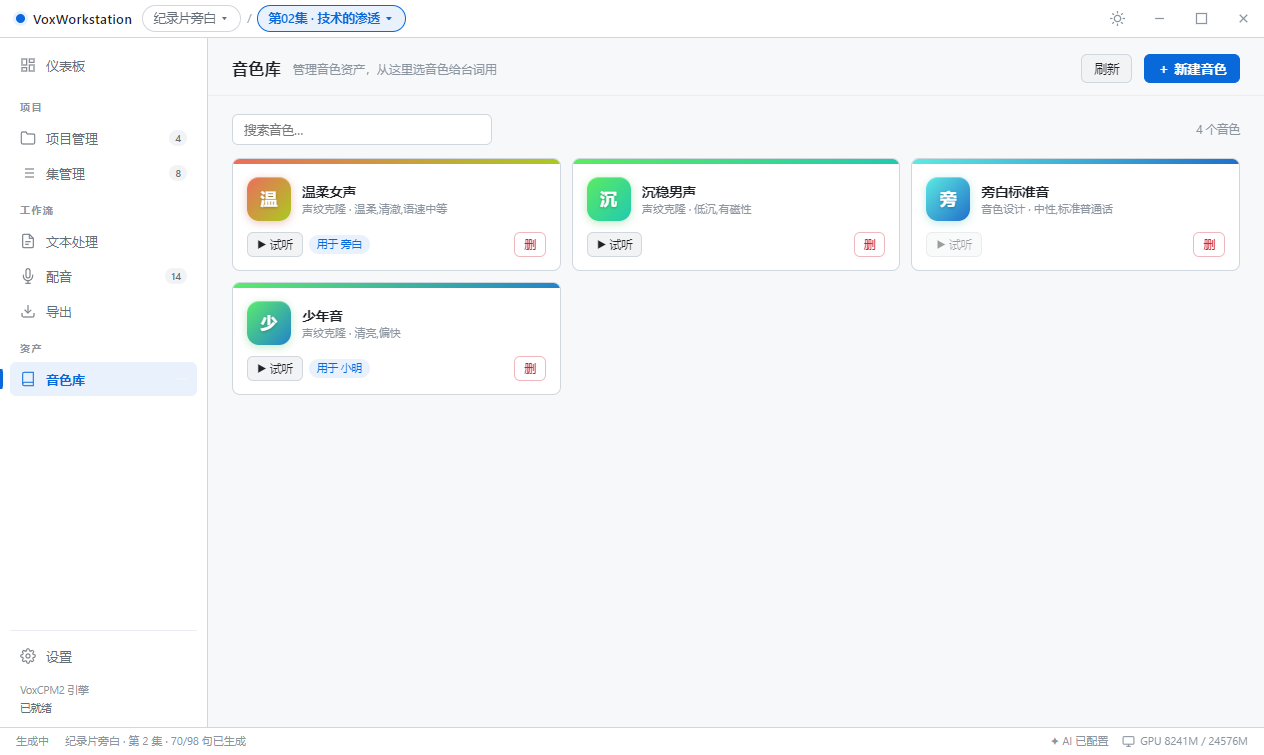
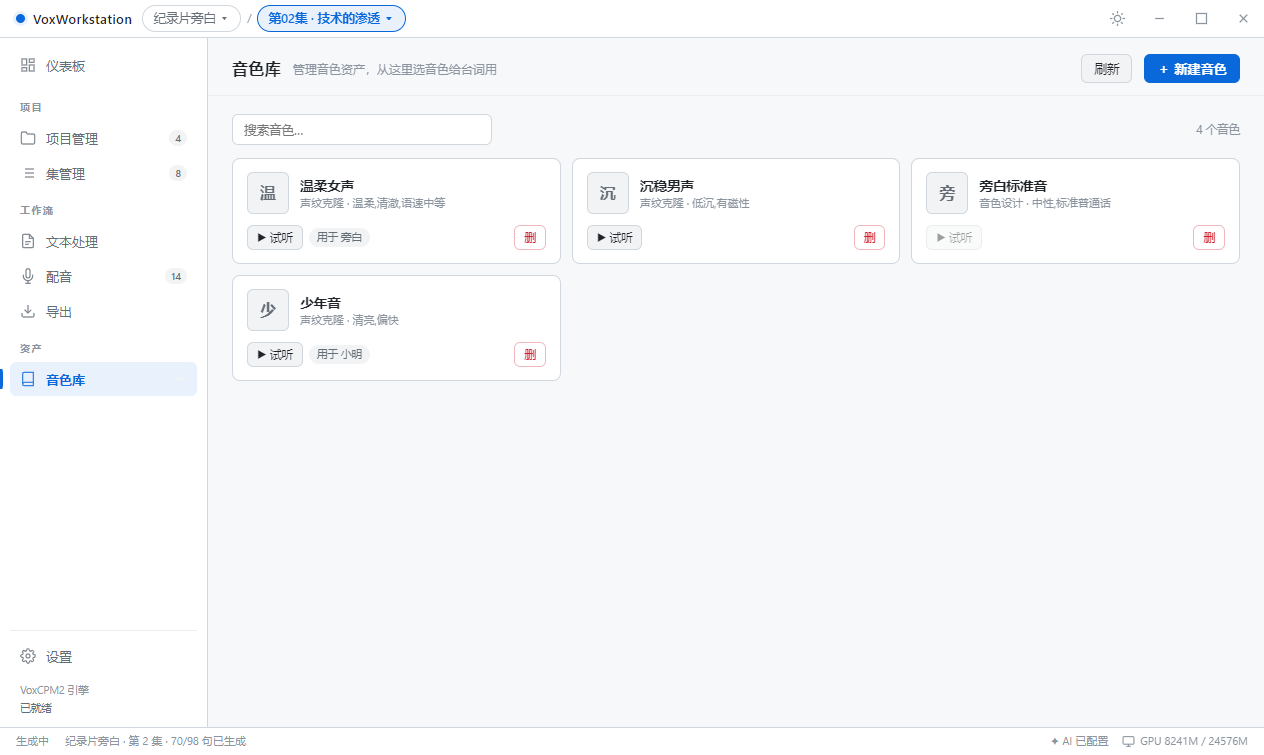
feat: 音色卡片改朴素主题色 + 修正 DeepSeek 模型名 + 通知提示音
音色卡片改版（上一版彩色渐变和主题差距太大）
- 去掉顶部彩色渐变窄带与彩色渐变方块
- 方块改用主题自身的中性色：--bg-elev 底 + --border 描边，
  首字用 --text-dim；悬浮时描边转 --accent
- 卡片去掉整体上浮，只保留描边变化，避免和主题气质冲突
- 四个主题分别适配：构成主义方角粗边、极简黑白透明底、
  液态玻璃毛玻璃底

DeepSeek 模型名修正（原 deepseek-chat / deepseek-reasoner 已下线）
- 按官方文档改为 deepseek-flash（DeepSeek-V4.1-Flash）
  与 deepseek-v4-pro（DeepSeek-V4-Pro-0813）
- 选中 DeepSeek 时显示说明：flash 便宜且支持视觉、1M 上下文，
  文本处理够用；错峰时段（北京时间 09:00-12:00 与 14:00-18:00 之外，
  含整个周末）价格减半
- 视觉模型输入框提示改为「DeepSeek 可直接填 deepseek-flash」

新增通知提示音
- components/notify.js：用 Web Audio 现场合成，不带任何音频文件
- 五种：关闭 / 清脆双音（G5→C6）/ 单声叮 / 轻气泡 / 下行三音
- 失败用单独的下行音，与成功区分
- 设置 → 通知：总开关、成功/失败分项开关、提示音选择（点了即试听）、
  音量滑杆（拖动即时生效，松手落盘）、试听按钮
- 接入三处完成点：配音「生成全部」、AI 文本处理、整轨/字幕导出

实测（探针）：零控制台报错；
音色卡片 hasWave=false / hasTone=false / chipGrad=none /
chipBg 为主题色 / chipBorder 跟随 --border；
通知 chips ["none","chime","ding","pop","down"]、AudioContext 可用、
切换提示音写入设置成功；
DeepSeek chips ["deepseek-flash","deepseek-v4-pro"] 且说明文案已显示

diff --git a/renderer/js/pages/settings.js b/renderer/js/pages/settings.js
@@ -4,9 +4,12 @@
 
 /* OpenAI 兼容服务商预设 —— 换服务商只改这里的 baseURL 与模型 */
 const AI_PROVIDERS = [
-  { id: 'deepseek', name: 'DeepSeek',    sub: '中文最准 · 便宜 · 国内直连',
+  { id: 'deepseek', name: 'DeepSeek',    sub: '国内直连 · 错峰半价',
     base: 'https://api.deepseek.com/v1',
-    models: ['deepseek-chat', 'deepseek-reasoner'] },
+    models: ['deepseek-flash', 'deepseek-v4-pro'],
+    note: 'deepseek-flash 便宜且支持视觉（1M 上下文），文本处理完全够用；'
+        + '错峰时段（北京时间 09:00-12:00、14:00-18:00 之外，含整个周末）价格减半。'
+        + '旧的 deepseek-chat / deepseek-reasoner 已下线。' },
   { id: 'qwen',     name: '通义千问',    sub: '阿里云 DashScope',
     base: 'https://dashscope.aliyuncs.com/compatible-mode/v1',
     models: ['qwen-max', 'qwen-plus', 'qwen-turbo', 'qwen-long'] },
@@ -125,6 +128,8 @@ const SettingsPage = {
       + '</span></h2>'
       + '<p class="text-sm text-muted" style="margin:-6px 0 10px">'
       + '所有服务商都走 OpenAI 兼容接口。选一个会自动填好地址与模型，也可以手改。</p>'
+      + (cur.note ? '<div class="bg-line" style="margin-bottom:12px">'
+          + '<div class="bg-text" style="font-size:12px">' + Util.escapeHtml(cur.note) + '</div></div>' : '')
       + '<div class="themes" style="flex-wrap:wrap;margin-bottom:6px">'
       + AI_PROVIDERS.map(p =>
           '<div class="th' + (ai.provider === p.id ? ' on' : '') + '" data-provider="' + p.id + '" style="width:164px">'
@@ -141,8 +146,8 @@ const SettingsPage = {
           + '</div>'
           + '<input type="text" id="ai-model" value="' + Util.escapeAttr(ai.model || '') + '" style="width:230px;'
           + (isCustomModel || !models.length ? '' : 'display:none') + '" placeholder="手填模型名">')
-      + this._row('视觉模型（OCR）', '图片取字用，留空则关闭该功能',
-          '<input type="text" id="ai-vision" value="' + Util.escapeAttr(ai.visionModel || '') + '" placeholder="如 qwen-vl-max" style="width:220px">')
+      + this._row('视觉模型（OCR）', '图片取字用；DeepSeek 可直接填 deepseek-flash，留空则关闭该功能',
+          '<input type="text" id="ai-vision" value="' + Util.escapeAttr(ai.visionModel || '') + '" placeholder="如 deepseek-flash / qwen-vl-max" style="width:220px">')
       + this._row('API Key', '用系统凭据加密存储，不落明文',
           '<input type="password" id="ai-key" placeholder="' + (Store.hasApiKey ? '已保存（留空则不修改）' : 'sk-…') + '" style="width:240px">'
           + '<button class="btn btn-sm" data-act="test">测试连接</button>')
@@ -235,9 +240,28 @@ const SettingsPage = {
 
   _notify(s) {
     const n = s.notify || {};
+    const sound = n.sound || 'chime';
+    const vol = n.volume ?? 70;
     return '<div class="card"><h2>通知</h2>'
-      + this._row('生成完成时提醒', '批量生成耗时较长', this._sw(n.onDone !== false, 'toggle-done'))
-      + this._row('生成失败时提醒', '失败句子会在集管理里标红', this._sw(n.onFail !== false, 'toggle-fail'))
+      + this._row('生成完成时提醒', '批量生成耗时较长，完成后响一声', this._sw(n.soundEnabled !== false, 'toggle-sound'))
+      + this._row('提醒内容', '不想要哪一种就关掉',
+          '<div class="model-chips">'
+          + '<button type="button" class="mchip' + (n.onDone !== false ? ' on' : '') + '" data-notify="onDone">成功时提醒</button>'
+          + '<button type="button" class="mchip' + (n.onFail !== false ? ' on' : '') + '" data-notify="onFail">失败时提醒</button>'
+          + '</div>')
+      + this._row('提示音', '现场合成，不占体积',
+          '<div class="model-chips" id="sound-chips">'
+          + Notify.SOUNDS.map(([id, name]) =>
+              '<button type="button" class="mchip' + (sound === id ? ' on' : '') + '" data-sound="' + id + '">'
+              + name + '</button>').join('')
+          + '</div>')
+      + this._row('音量', '',
+          '<input type="range" id="n-vol" min="0" max="100" value="' + vol + '" style="width:170px">'
+          + '<b class="text-sm" id="n-vol-v" style="width:36px;text-align:right">' + vol + '%</b>'
+          + '<button class="btn btn-sm" data-act="test-sound">试听</button>')
+      + '<p class="text-sm text-muted mt-12" style="margin-bottom:0">'
+      + '提示音在「生成全部台词」「AI 处理」「整轨导出」完成后播放。'
+      + '失败时用下行音，和成功区分开。</p>'
       + '</div>';
   },
 
@@ -306,8 +330,31 @@ const SettingsPage = {
     toggle('toggle-motion',   v => save({ reduceMotion: !v }));
     toggle('toggle-tts',      v => save({ tts: { ...s.tts, autoStart: v } }));
     toggle('toggle-srt',      v => save({ output: { ...s.output, exportSrt: v } }));
-    toggle('toggle-done',     v => save({ notify: { ...s.notify, onDone: v } }));
-    toggle('toggle-fail',     v => save({ notify: { ...s.notify, onFail: v } }));
+    toggle('toggle-sound',    v => save({ notify: { ...s.notify, soundEnabled: v } }));
+
+    /* 通知：内容开关 / 提示音 / 音量 */
+    el.querySelectorAll('[data-notify]').forEach(b =>
+      b.addEventListener('click', () => {
+        const key = b.dataset.notify;
+        const on = !b.classList.contains('on');
+        b.classList.toggle('on', on);
+        save({ notify: { ...s.notify, [key]: on } });
+      }));
+    el.querySelectorAll('#sound-chips [data-sound]').forEach(b =>
+      b.addEventListener('click', () => {
+        el.querySelectorAll('#sound-chips .mchip').forEach(x => x.classList.toggle('on', x === b));
+        save({ notify: { ...s.notify, sound: b.dataset.sound } });
+        if (b.dataset.sound !== 'none') setTimeout(() => Notify.play(b.dataset.sound), 120);
+      }));
+    const volEl = el.querySelector('#n-vol');
+    volEl?.addEventListener('input', () => {
+      const v = Number(volEl.value);
+      const lbl = el.querySelector('#n-vol-v');
+      if (lbl) lbl.textContent = v + '%';
+      s.notify = { ...s.notify, volume: v };   // 拖动时先改内存，松手再落盘
+    });
+    volEl?.addEventListener('change', () => save({ notify: { ...s.notify, volume: Number(volEl.value) } }));
+    el.querySelector('[data-act="test-sound"]')?.addEventListener('click', () => Notify.play());
     toggle('toggle-redact',   v => save({ privacy: { ...s.privacy, redact: v } }));
     toggle('toggle-onlycur',  v => save({ privacy: { ...s.privacy, onlyCurrentParagraph: v } }));
     toggle('toggle-diff',     v => save({ privacy: { ...s.privacy, keepDiffHistory: v } }));

diff --git a/renderer/js/components/notify.js b/renderer/js/components/notify.js
@@ -1,0 +1,95 @@
+/* ══════════════════════════════════════════
+   Notify —— 任务完成提示音
+   用 Web Audio 现场合成，不带任何音频文件
+   ══════════════════════════════════════════ */
+
+const Notify = {
+  _ctx: null,
+
+  /** 提示音种类 —— 设置页直接读这个表 */
+  SOUNDS: [
+    ['none',  '关闭'],
+    ['chime', '清脆双音'],
+    ['ding',  '单声叮'],
+    ['pop',   '轻气泡'],
+    ['down',  '下行三音']
+  ],
+
+  _ac() {
+    if (!this._ctx) {
+      const AC = window.AudioContext || window.webkitAudioContext;
+      if (!AC) return null;
+      this._ctx = new AC();
+    }
+    if (this._ctx.state === 'suspended') this._ctx.resume().catch(() => {});
+    return this._ctx;
+  },
+
+  /** 合成一个音；t 为相对开始的秒数 */
+  _tone(ac, freq, t, dur, gain = 0.14, type = 'sine') {
+    const osc = ac.createOscillator();
+    const g = ac.createGain();
+    osc.type = type;
+    osc.frequency.setValueAtTime(freq, ac.currentTime + t);
+    // 快起慢落，避免爆音
+    g.gain.setValueAtTime(0.0001, ac.currentTime + t);
+    g.gain.exponentialRampToValueAtTime(gain, ac.currentTime + t + 0.012);
+    g.gain.exponentialRampToValueAtTime(0.0001, ac.currentTime + t + dur);
+    osc.connect(g); g.connect(ac.destination);
+    osc.start(ac.currentTime + t);
+    osc.stop(ac.currentTime + t + dur + 0.02);
+  },
+
+  play(kind) {
+    const name = kind || (Store.settings.notify && Store.settings.notify.sound) || 'chime';
+    if (name === 'none') return;
+    const ac = this._ac();
+    if (!ac) return;
+    const vol = ((Store.settings.notify && Store.settings.notify.volume) ?? 70) / 100;
+    const g = 0.05 + vol * 0.16;
+
+    switch (name) {
+      case 'ding':
+        this._tone(ac, 880, 0, 0.5, g);
+        break;
+      case 'pop':
+        this._tone(ac, 420, 0, 0.10, g, 'triangle');
+        break;
+      case 'down':
+        this._tone(ac, 660, 0,    0.22, g);
+        this._tone(ac, 550, 0.10, 0.22, g);
+        this._tone(ac, 440, 0.20, 0.40, g);
+        break;
+      case 'chime':
+      default:
+        this._tone(ac, 784, 0,    0.28, g);          // G5
+        this._tone(ac, 1046, 0.10, 0.42, g);         // C6
+        break;
+    }
+  },
+
+  /** 失败用下行音，和成功区分开 */
+  fail() {
+    const ac = this._ac();
+    if (!ac) return;
+    const vol = ((Store.settings.notify && Store.settings.notify.volume) ?? 70) / 100;
+    const g = 0.05 + vol * 0.14;
+    this._tone(ac, 440, 0,    0.20, g, 'triangle');
+    this._tone(ac, 330, 0.14, 0.34, g, 'triangle');
+  },
+
+  /** 是否该响：总开关 + 分项开关都开才响 */
+  onDone() {
+    const n = Store.settings.notify || {};
+    if (n.soundEnabled === false) return;
+    if (n.onDone === false) return;
+    this.play();
+  },
+
+  onFail() {
+    const n = Store.settings.notify || {};
+    if (n.soundEnabled === false) return;
+    if (n.onFail === false) return;
+    this.fail();
+  }
+};

diff --git a/renderer/css/style.css b/renderer/css/style.css
@@ -461,30 +461,26 @@ svg{display:block}
 /* --- 音色库 ---------------------------------------- */
 .vgrid{display:grid;grid-template-columns:repeat(auto-fill,minmax(250px,1fr));gap:11px}
 .vcard{border:1px solid var(--border);border-radius:var(--radius-lg);background:var(--bg-card);
-  overflow:hidden;display:flex;flex-direction:column;
-  transition:border-color var(--transition),transform var(--transition)}
-.vcard:hover{border-color:var(--text-mute);transform:translateY(-2px)}
-/* 顶部渐变窄带 —— 只占卡片一小条，用来区分音色 */
-.vtone{height:5px;flex-shrink:0}
-.vbody{padding:13px 14px;display:flex;flex-direction:column;gap:11px;flex:1}
+  padding:13px 14px;display:flex;flex-direction:column;gap:11px;
+  transition:border-color var(--transition)}
+.vcard:hover{border-color:var(--text-mute)}
 .vtop{display:flex;align-items:center;gap:11px;min-width:0}
-/* 渐变方块代替原来的音波图标，里面放音色首字 */
-.vchip{width:44px;height:44px;border-radius:12px;flex-shrink:0;
+/* 方块用主题自身的中性色，只有首字，不引任何彩色 */
+.vchip{width:42px;height:42px;border-radius:var(--radius);flex-shrink:0;
   display:flex;align-items:center;justify-content:center;
-  color:#fff;font-size:17px;font-weight:600;letter-spacing:.02em;
-  text-shadow:0 1px 3px rgba(0,0,0,.28);
-  box-shadow:inset 0 1px 0 rgba(255,255,255,.32), 0 2px 8px hsl(var(--tone-a) 70% 40% / .28)}
+  background:var(--bg-elev);border:1px solid var(--border);
+  color:var(--text-dim);font-size:16px;font-weight:600;line-height:1;
+  transition:border-color var(--transition),color var(--transition)}
+.vcard:hover .vchip{border-color:var(--accent);color:var(--accent)}
 .vn{min-width:0;flex:1}
 .vn b{display:block;font-size:13.5px;font-weight:600;overflow:hidden;text-overflow:ellipsis;white-space:nowrap}
 .vn span{font-size:11px;color:var(--text-mute);overflow:hidden;text-overflow:ellipsis;white-space:nowrap;display:block}
-.vacts{display:flex;gap:6px;align-items:center;flex-wrap:wrap;margin-top:auto}
-/* 其它主题的适配 */
-[data-theme="glass"] .vchip{box-shadow:inset 0 1px 0 rgba(255,255,255,.45), 0 4px 14px hsl(var(--tone-a) 70% 45% / .35)}
-[data-theme="construct"] .vcard{border-width:3px}
-[data-theme="construct"] .vtone{height:7px;border-bottom:3px solid var(--border)}
-[data-theme="construct"] .vchip{border-radius:0;border:3px solid var(--border);text-shadow:none}
-[data-theme="minimal"] .vchip{box-shadow:none;filter:grayscale(1) contrast(1.15)}
-[data-theme="minimal"] .vtone{filter:grayscale(1)}
+.vacts{display:flex;gap:6px;align-items:center;flex-wrap:wrap}
+/* 主题适配：构成主义方角粗边、极简黑白更收敛 */
+[data-theme="construct"] .vchip{border-width:2px;font-weight:700}
+[data-theme="minimal"] .vchip{background:transparent}
+[data-theme="glass"] .vchip{background:rgba(255,255,255,.55);
+  -webkit-backdrop-filter:blur(14px);backdrop-filter:blur(14px)}
 
 /* --- 选择列表 -------------------------------------- */
 .pick-list{display:flex;flex-direction:column;gap:6px;max-height:340px;overflow-y:auto}

diff --git a/renderer/js/pages/voices.js b/renderer/js/pages/voices.js
@@ -28,40 +28,23 @@ const VoicesPage = {
       + '</div>';
   },
 
-  /** 由音色名派生的确定性配色 —— 同一个音色永远同一个颜色 */
-  _tone(name) {
-    let h = 0;
-    for (let i = 0; i < name.length; i++) h = (h * 31 + name.charCodeAt(i)) >>> 0;
-    const a = h % 360;
-    const b = (a + 42 + (h >> 8) % 40) % 360;
-    return {
-      a, b,
-      grad: 'linear-gradient(135deg,hsl(' + a + ' 78% 64%),hsl(' + b + ' 72% 46%))',
-      soft: 'linear-gradient(135deg,hsl(' + a + ' 78% 64% / .16),hsl(' + b + ' 72% 46% / .10))'
-    };
-  },
-
   _card(v) {
     const used = this._usedBy(v.name);
-    const t = this._tone(String(v.name));
     const initial = String(v.name).trim().slice(0, 1) || '音';
     const kind = v.voice_file ? '声纹克隆' : '音色设计';
-    return '<div class="vcard" style="--tone-a:' + t.a + ';--tone-b:' + t.b + '">'
-      // 顶部一条渐变窄带（占卡片一小部分，不抢内容）
-      + '<div class="vtone" style="background:' + t.grad + '"></div>'
-      + '<div class="vbody">'
+    return '<div class="vcard">'
       + '<div class="vtop">'
-      + '<div class="vchip" style="background:' + t.grad + '">' + Util.escapeHtml(initial) + '</div>'
+      + '<div class="vchip">' + Util.escapeHtml(initial) + '</div>'
       + '<div class="vn"><b>' + Util.escapeHtml(v.name) + '</b>'
       + '<span>' + kind + (v.desc ? ' · ' + Util.escapeHtml(v.desc) : '') + '</span></div>'
       + '</div>'
       + '<div class="vacts">'
       + '<button class="btn btn-sm" data-act="audition" data-name="' + Util.escapeAttr(v.name) + '"'
       + (v.voice_file ? '' : ' disabled title="这个音色没有声纹文件，无法试听"') + '>▶ 试听</button>'
-      + (used ? '<span class="pill pill-run">用于 ' + Util.escapeHtml(used) + '</span>' : '')
+      + (used ? '<span class="pill">用于 ' + Util.escapeHtml(used) + '</span>' : '')
       + '<span style="flex:1"></span>'
       + '<button class="btn btn-sm btn-ghost btn-danger" data-act="del" data-name="' + Util.escapeAttr(v.name) + '">删</button>'
-      + '</div></div></div>';
+      + '</div></div>';
   },
 
   _usedBy(voiceName) {

diff --git a/renderer/js/pages/dub.js b/renderer/js/pages/dub.js
@@ -388,8 +388,11 @@ const DubPage = {
     await Store.openEpisode(Store.currentEpisodeNo);
     const failed = (Store.currentEpisode.lines || []).filter(l => l.error).length;
     App.go('dub');
-    if (failed) Toast.error('完成，但有 ' + failed + ' 句失败', true);
-    else Toast.success('已生成 ' + total + ' 句并保存到 第'
-      + String(Store.currentEpisodeNo).padStart(p.padWidth || 2, '0') + '集\\audio\\');
+    if (failed) { Toast.error('完成，但有 ' + failed + ' 句失败', true); Notify.onFail(); }
+    else {
+      Notify.onDone();
+      Toast.success('已生成 ' + total + ' 句并保存到 第'
+        + String(Store.currentEpisodeNo).padStart(p.padWidth || 2, '0') + '集\\audio\\');
+    }
   }
 };

diff --git a/renderer/js/pages/text.js b/renderer/js/pages/text.js
@@ -342,6 +342,7 @@ const TextPage = {
         Modal.close();
         App.go('text');
       } catch (err) {
+        Notify.onFail();
         Toast.error('AI 处理失败：' + (err.message || err), true);
       } finally { btn.disabled = false; }
     });
@@ -410,6 +411,7 @@ const TextPage = {
     const cost = ((tokenTotal.prompt_tokens * 0.001 + tokenTotal.completion_tokens * 0.002) / 1000).toFixed(4);
     say('完成 · token ' + (tokenTotal.prompt_tokens + tokenTotal.completion_tokens)
       + '（输入 ' + tokenTotal.prompt_tokens + ' / 输出 ' + tokenTotal.completion_tokens + '）');
+    Notify.onDone();
     Toast.success('AI 处理完成 · ' + tasks.length + ' 项');
   },
 

diff --git a/renderer/js/pages/export.js b/renderer/js/pages/export.js
@@ -135,6 +135,7 @@ const ExportPage = {
         });
         await Store.openEpisode(no);
         App.go('export');
+        Notify.onDone();
         Toast.success('已导出：' + name);
       } catch (e) {
         Toast.error('导出失败：' + (e.message || e), true);
@@ -163,6 +164,7 @@ const ExportPage = {
       });
       await Store.openEpisode(no);
       App.go('export');
+      Notify.onDone();
       Toast.success('已导出字幕：' + name);
     });
   },

diff --git a/renderer/index.html b/renderer/index.html
@@ -139,6 +139,7 @@
 <script src="js/components/gpu.js"></script>
 <script src="js/components/modal.js"></script>
 <script src="js/components/select.js"></script>
+<script src="js/components/notify.js"></script>
 <script src="js/components/shortcuts.js"></script>
 <script src="js/pages/dashboard.js"></script>
 <script src="js/pages/projects.js"></script>

diff --git a/main.js b/main.js
@@ -81,7 +81,7 @@ const APP_SETTINGS_DEFAULTS = {
   },
   project: { autoSaveSec: 30, dailyBackup: true },
   privacy: { redact: false, onlyCurrentParagraph: true, keepDiffHistory: true },
-  notify: { onDone: true, onFail: true }
+  notify: { soundEnabled: true, sound: 'chime', volume: 70, onDone: true, onFail: true }
 };
 
 let appSettings = null;
